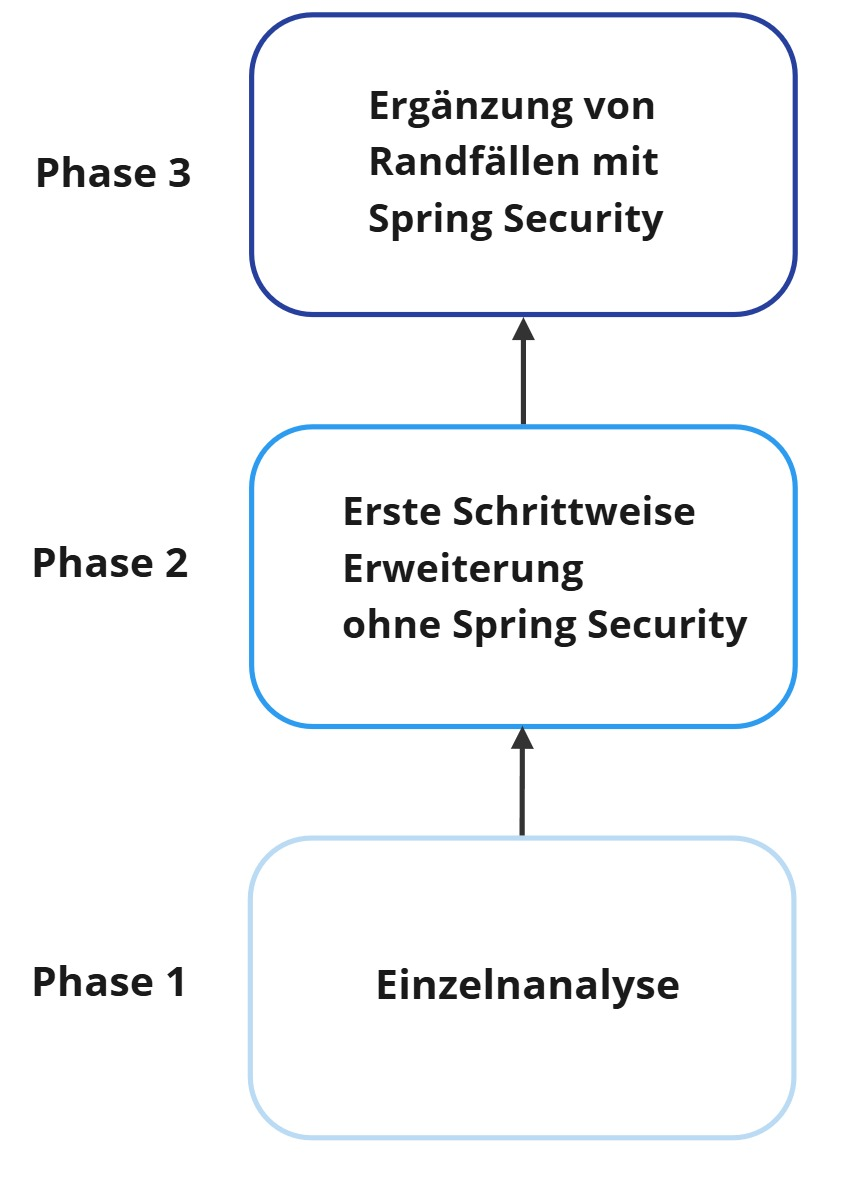
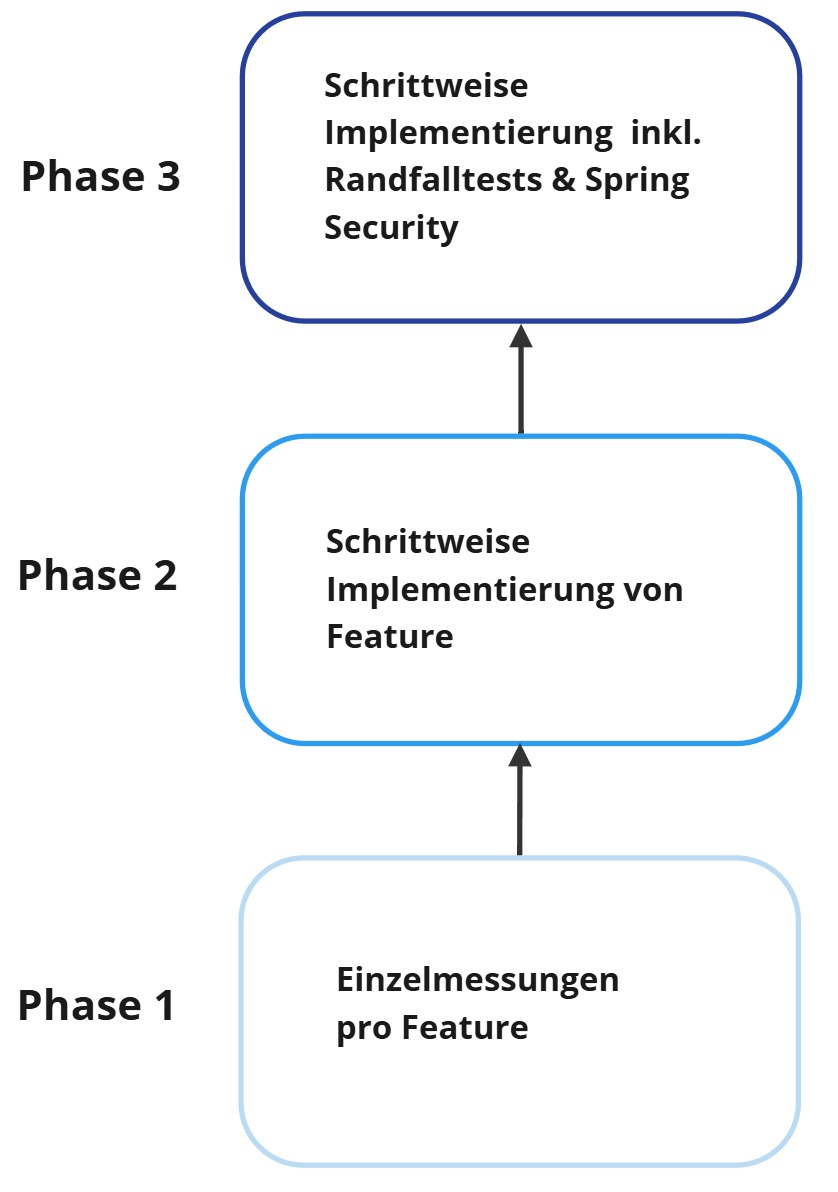
[bachelorarbeit] fix

diff --git a/bachelorarbeit/methodik.tex b/bachelorarbeit/methodik.tex
@@ -20,8 +20,9 @@ Zur Überprüfung der Testabdeckung wird das Tool \texttt{JaCoCo} eingesetzt. \t
 
 Für das Mutationstesting wird \texttt{PITest} verwendet. \texttt{Parallel Isolated Tests}(PITest) ist ein Tool zur automatisierten Bewertung der Testqualität. Es verändert gezielt den Code und überprüft, ob die vorhandenen Tests diese Änderungen erkennen. Dadurch lassen sich Schwachstellen in der Testabdeckung identifizieren. Die Konfiguration erfolgt in der Datei \texttt{build.gradle}, wobei die Ergebnisse automatisch in den Ordner \texttt{reports} gespeichert werden. Die Auswertung erfolgt getrennt für die beiden Teststrategien \texttt{Honeycomb} und \texttt{Testpyramide}.
 
+Für jede Testkonfiguration wurden zehn Durchläufe durchgeführt, aus denen die durchschnittliche Laufzeit und die Anzahl der ausgeführten Tests ermittelt wurden. Die Tests liefen mit Gradle unter Java 21 auf einem System mit 16 GB RAM, einem AMD Ryzen 5 5600H und einer 512 GB NVMe SSD unter Windows. Um möglichst präzise Laufzeitergebnisse zu erhalten, wurden während der Testdurchläufe keine weiteren Programme ausgeführt.
 
-Die Wahl der Teststrategie basiert auf den Anforderungen der Webanwendung Venow, die als Fallstudie dient. Durch den Einsatz von H2 und Testcontainers werden die zuvor beschriebenen Testansätze praktisch erprobt, um die Systemfunktionen wie den Bewerbungsprozess, die Vertragsverwaltung und der Veranstaltungsverwaltung umfassend zu validieren.
+Neben der Testlaufzeit wurde analysiert, inwiefern sich die Anzahl der Tests zwischen den Strategien unterscheidet und welchen Einfluss dies auf die Testergebnisse hat. Ein besonderer Fokus lag dabei auf der Frage, ob das Honeycomb-Modell durch seine ausschließlich realitätsnahen Tests präzisere, aber potenziell langsamere Testergebnisse liefert und ob die Testpyramide durch die Kombination aus schnellen Unit-Tests und gezielten Integrationstests eine effizientere Alternative darstellt. Zusätzlich wurde der Einfluss von TDD untersucht, insbesondere hinsichtlich der Auswirkungen auf die Testqualität und die Struktur der entwickelten Tests.
 
 
 
@@ -34,15 +35,13 @@ Die Wahl der Teststrategie basiert auf den Anforderungen der Webanwendung Venow,
 \end{figure}
 Wie in \autoref{fig:drei-phasen} lassen sich die durchgeführten Testmessungen in drei Phasen unterteilen, die verschiedene Aspekte der Teststrategien beleuchten. In der \textbf{ersten Phase }erfolgte eine getrennte Analyse der Anwendungsfälle Bewerbungsprozess, Vertragsmanagement und Veranstaltungsmanagement, um die spezifischen Auswirkungen der beiden Strategien zu untersuchen. Alle Anwendungsfälle waren vollständig implementiert, da die Tests erst nach Abschluss der gesamten Entwicklung durchgeführt wurden.
 
-Für jede Testkonfiguration wurden zehn Durchläufe durchgeführt, aus denen die durchschnittliche Laufzeit und die Anzahl der ausgeführten Tests ermittelt wurden. Die Tests liefen mit Gradle unter Java 21 auf einem System mit 16 GB RAM, einem AMD Ryzen 5 5600H und einer 512 GB NVMe SSD unter Windows. Um möglichst präzise Laufzeitergebnisse zu erhalten, wurden während der Testdurchläufe keine weiteren Programme ausgeführt.
-
-Neben der Testlaufzeit wurde analysiert, inwiefern sich die Anzahl der Tests zwischen den Strategien unterscheidet und welchen Einfluss dies auf die Testergebnisse hat. Ein besonderer Fokus lag dabei auf der Frage, ob das Honeycomb-Modell durch seine ausschließlich realitätsnahen Tests präzisere, aber potenziell langsamere Testergebnisse liefert und ob die Testpyramide durch die Kombination aus schnellen Unit-Tests und gezielten Integrationstests eine effizientere Alternative darstellt. Zusätzlich wurde der Einfluss von TDD untersucht, insbesondere hinsichtlich der Auswirkungen auf die Testqualität und die Struktur der entwickelten Tests.
-
 In der \textbf{zweiten Phase} wurde die Entwicklung der Testkennzahlen über den gesamten Implementierungsprozess hinweg betrachtet. Zunächst wurde der Bewerbungsprozess vollständig entwickelt, getestet und gemessen, bevor das Vertragsmanagement als nächstes Feature hinzugefügt wurde. Dies wurde vor der Integration von Spring Security analysiert Sie dienen als Grundlage, um später die Auswirkungen der Authentifizierung auf die Teststrategien zu vergleichen. Nach Abschluss der Tests folgte schließlich die Integration und Messung des Veranstaltungsmanagements. Durch diese schrittweise Erweiterung konnte untersucht werden, wie sich die steigende Komplexität der Anwendung und die zunehmenden Abhängigkeiten zwischen den Features auf die Testperformance auswirkten. Die Analyse betrachtete nicht nur die einzelnen Features, sondern auch deren Effekt auf die gesamte Teststrategie im Verlauf der Entwicklung.
 
 In der \textbf{dritten Phase} wurden zusätzliche Tests ergänzt, die aus Fehleranalysen während der Frontend-Entwicklung resultierten. Diese Tests deckten Randfälle ab und erweiterten die Gesamtabdeckung der Anwendung. Darüber hinaus wurde Spring Security implementiert, wodurch die Authentifizierungs- und Autorisierungsszenarien in die Tests aufgenommen wurden. Die Messungen wurden unter denselben Rahmenbedingungen wie in Phase zwei durchgeführt, um die Ergebnisse vergleichbar zu halten.
 
 Am Ende jeder Phase werden die wichtigsten Erkenntnisse zusammengefasst und die Auswirkungen der Teststrategien bewertet. Dabei fließen nicht nur die Testergebnisse selbst ein, sondern auch praktische Erfahrungen, etwa wie sich die Teststrategien beim Debuggen, beim Hinzufügen neuer Attribute oder bei Änderungen am Code ausgewirkt haben.
+
+
 
 \subsection{Tests für spezifische Anwendungsfälle}
 

diff --git a/bachelorarbeit/thesis.tex b/bachelorarbeit/thesis.tex
@@ -37,7 +37,7 @@
 
 %% Beginn- und Abgabedaten der Arbeit
 \begindate{26.~November~2024} % Beginn
-\duedate{26.~Februar~2025} % Abgabe
+\duedate{10.~März~2025} % Abgabe
 
 %% Erst- und Zweitgutachter
 \firstexaminer{~Dr.~Jens~Bendisposto}
